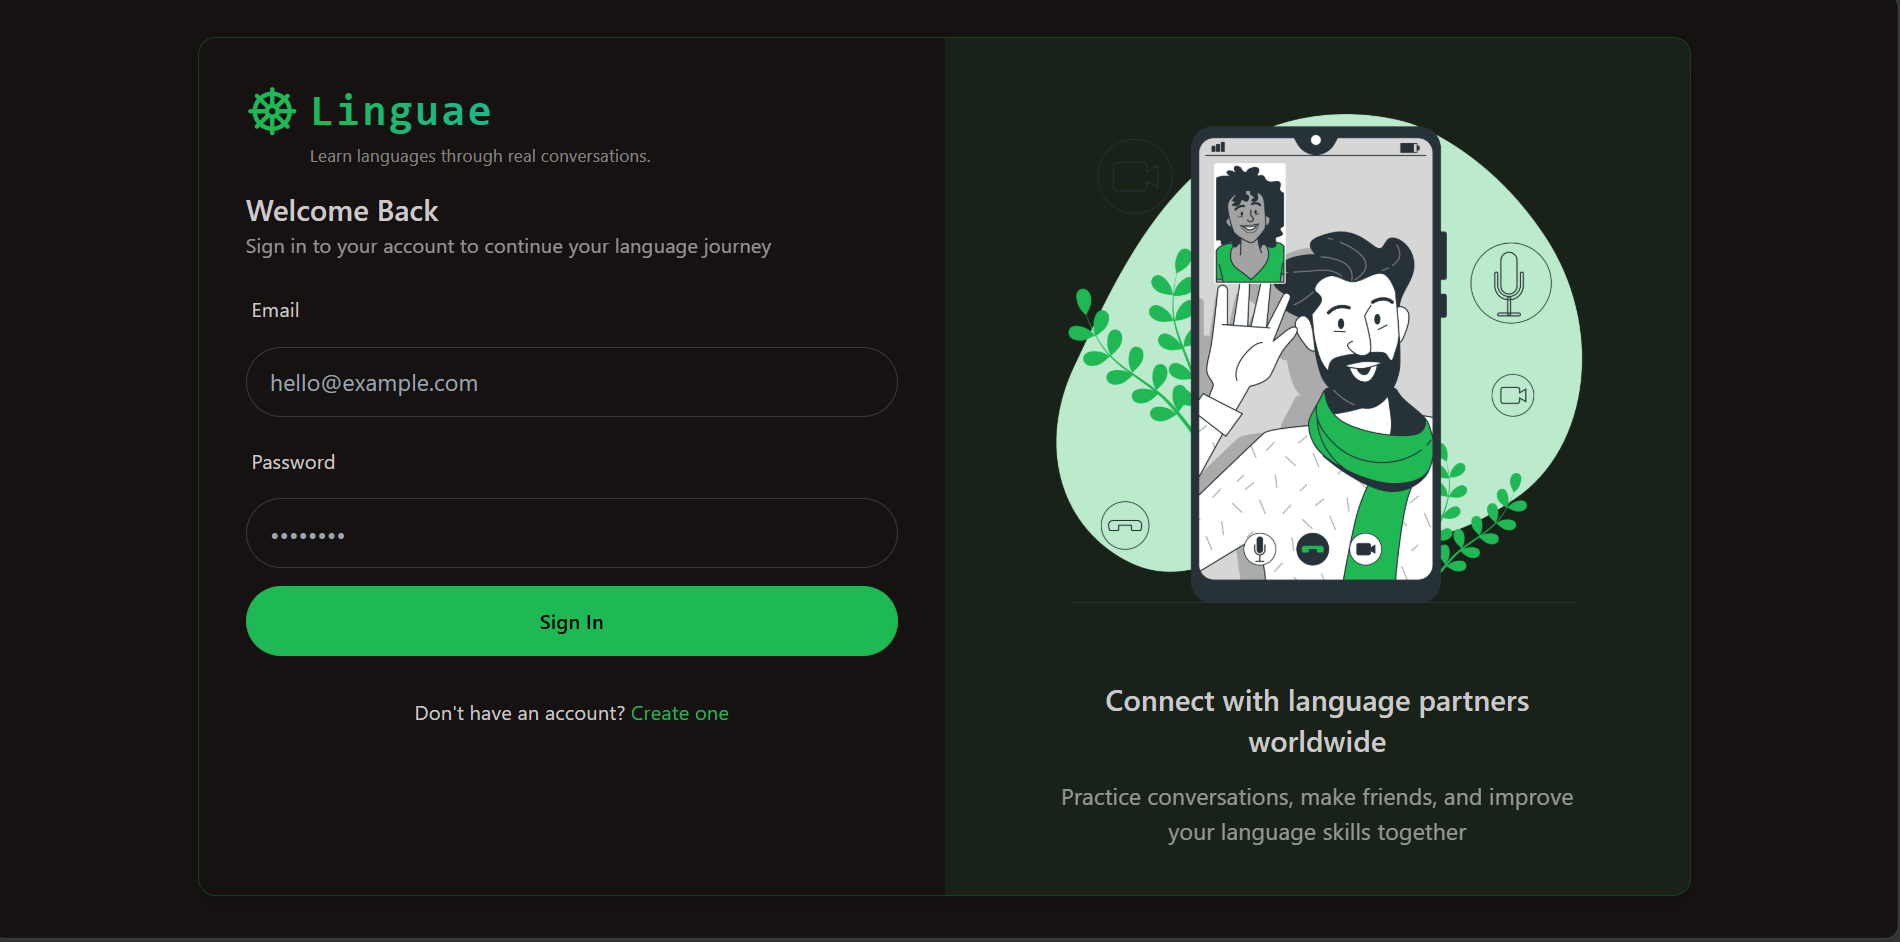
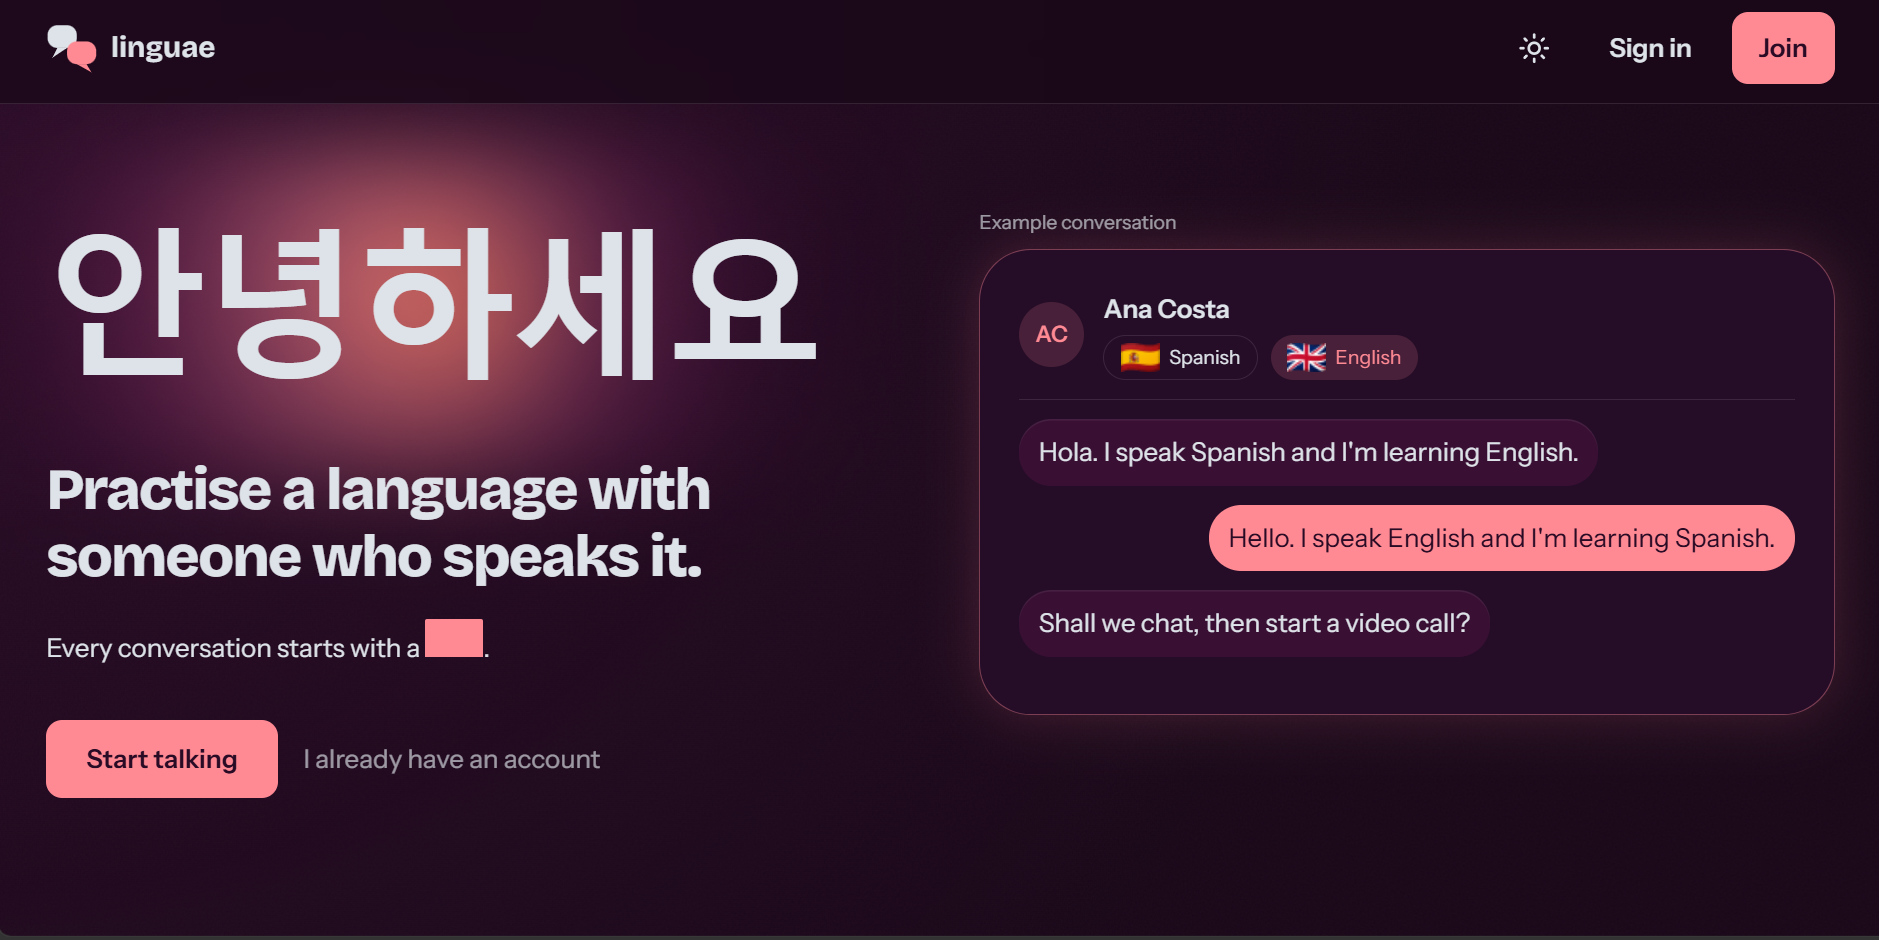
fix: hero/contact/footer clipping, skills on touch, Lenis touch scroll

diff --git a/src/pages/Index.tsx b/src/pages/Index.tsx
@@ -1,4 +1,4 @@
-import React, { useEffect, useRef } from "react";
+import React, { useEffect, useRef, useState } from "react";
 import { motion, useSpring, useMotionValue, useScroll, useTransform } from "framer-motion";
 import { Github, Linkedin, Instagram, Mail } from "lucide-react";
 import { useScramble } from "@/hooks/use-scramble";
@@ -130,8 +130,14 @@ const MobileSocialStrip = () => {
       className="flex flex-col items-center gap-6"
     >
       {socials.map(({ label, icon: Icon, href }) => (
-        <a key={label} href={href} target={href.startsWith("mailto") ? "_self" : "_blank"} rel="noopener noreferrer"
-          className="text-white hover:opacity-75 transition-opacity duration-300 block">
+        <a
+          key={label}
+          href={href}
+          target={href.startsWith("mailto") ? "_self" : "_blank"}
+          rel="noopener noreferrer"
+          aria-label={label}
+          className="text-white hover:opacity-75 transition-opacity duration-300 inline-flex items-center justify-center p-[13px]"
+        >
           <Icon size={18} strokeWidth={2.5} />
         </a>
       ))}
@@ -165,7 +171,7 @@ const HeroContent = () => {
         animate={{ opacity: 1, y: 0 }}
         transition={{ duration: 0.8, ease: [0.16, 1, 0.3, 1] }}
       >
-        <h1 className="font-sans font-bold text-7xl md:text-8xl lg:text-[9rem] xl:text-[11rem] leading-[0.85] tracking-tighter text-white text-left pt-4">
+        <h1 className="font-sans font-bold text-[clamp(2.25rem,calc((100vw-3rem)/4.15),4.5rem)] md:text-[clamp(3rem,calc((100vw-8rem)/4.15),6rem)] lg:text-[9rem] xl:text-[11rem] leading-[0.85] tracking-tighter text-white text-left pt-4">
           <span
             ref={firstRef as React.RefObject<HTMLSpanElement>}
             className="block cursor-default select-none"
@@ -186,7 +192,7 @@ const HeroContent = () => {
         initial={{ opacity: 0, x: -20 }}
         animate={{ opacity: 1, x: 0 }}
         transition={{ duration: 0.8, delay: 0.35, ease: "easeOut" }}
-        className="w-full pr-[70px] md:pr-[120px] mt-2 md:mt-4"
+        className="w-full md:pr-[120px] mt-2 md:mt-4"
       >
         <div className="w-12 h-[2px] bg-white mb-4 md:hidden" />
         <p
@@ -231,12 +237,12 @@ const HeroContent = () => {
             className="group relative overflow-hidden border border-white px-5 py-3 md:px-6 md:py-3 flex items-center gap-2 md:gap-3 transition-colors duration-500 focus-visible:outline focus-visible:outline-2 focus-visible:outline-white focus-visible:outline-offset-2 shrink-0"
             aria-label="View Resume"
           >
-            <span className="absolute inset-0 bg-white translate-x-[-101%] group-hover:translate-x-0 transition-transform duration-500 ease-in-out" />
-            <span className="relative font-sans font-black text-[9px] md:text-[10px] tracking-[0.25em] uppercase text-white group-hover:text-black transition-colors duration-300 z-10 whitespace-nowrap">
+            <span className="absolute inset-0 bg-white translate-x-[-101%] group-hover:translate-x-0 [@media(hover:none)]:!translate-x-0 transition-transform duration-500 ease-in-out" />
+            <span className="relative font-sans font-black text-[9px] md:text-[10px] tracking-[0.25em] uppercase text-white group-hover:text-black [@media(hover:none)]:!text-black transition-colors duration-300 z-10 whitespace-nowrap">
               View Resume
             </span>
             <svg
-              className="relative w-3 h-3 text-white group-hover:text-black transition-colors duration-300 z-10"
+              className="relative w-3 h-3 text-white group-hover:text-black [@media(hover:none)]:!text-black transition-colors duration-300 z-10"
               viewBox="0 0 12 12" fill="none" stroke="currentColor" strokeWidth="2.5"
             >
               <path d="M1 6h10M6 1l5 5-5 5" />
@@ -246,15 +252,15 @@ const HeroContent = () => {
           {/* Secondary CTA */}
           <a
             href="#contact"
-            className="group relative overflow-hidden border border-white/30 px-5 py-3 md:px-6 md:py-3 flex items-center gap-2 md:gap-3 hover:border-white transition-colors duration-500 focus-visible:outline focus-visible:outline-2 focus-visible:outline-white focus-visible:outline-offset-2 shrink-0"
+            className="group relative overflow-hidden border border-white/30 px-5 py-3 md:px-6 md:py-3 flex items-center gap-2 md:gap-3 hover:border-white [@media(hover:none)]:!border-white [@media(hover:none)]:!bg-white transition-colors duration-500 focus-visible:outline focus-visible:outline-2 focus-visible:outline-white focus-visible:outline-offset-2 shrink-0"
             aria-label="Contact Me"
           >
-            <span className="absolute inset-0 bg-white translate-x-[-101%] group-hover:translate-x-0 transition-transform duration-500 ease-in-out" />
-            <span className="relative font-sans font-black text-[9px] md:text-[10px] tracking-[0.25em] uppercase text-white group-hover:text-black transition-colors duration-300 z-10 whitespace-nowrap">
+            <span className="absolute inset-0 bg-white translate-x-[-101%] group-hover:translate-x-0 [@media(hover:none)]:!translate-x-0 transition-transform duration-500 ease-in-out" />
+            <span className="relative font-sans font-black text-[9px] md:text-[10px] tracking-[0.25em] uppercase text-white group-hover:text-black [@media(hover:none)]:!text-black transition-colors duration-300 z-10 whitespace-nowrap">
               Contact Me
             </span>
             <svg
-              className="relative w-3 h-3 text-white group-hover:text-black transition-colors duration-300 z-10"
+              className="relative w-3 h-3 text-white group-hover:text-black [@media(hover:none)]:!text-black transition-colors duration-300 z-10"
               viewBox="0 0 12 12" fill="none" stroke="currentColor" strokeWidth="2.5"
             >
               <path d="M1 6h10M6 1l5 5-5 5" />
@@ -268,11 +274,26 @@ const HeroContent = () => {
 
 const Index = () => {
   const footerContainerRef = useRef<HTMLDivElement>(null);
+  const [footerReveal, setFooterReveal] = useState(
+    () => window.matchMedia("(min-width: 1024px)").matches
+  );
+
+  useEffect(() => {
+    const mq = window.matchMedia("(min-width: 1024px)");
+    const sync = () => setFooterReveal(mq.matches);
+    sync();
+    mq.addEventListener("change", sync);
+    return () => mq.removeEventListener("change", sync);
+  }, []);
+
   const { scrollYProgress } = useScroll({
     target: footerContainerRef,
     offset: ["start end", "end end"]
   });
 
+  // Shell is exactly one viewport tall and clips. y:-50%→0 slides the footer
+  // up inside that window. Below lg the shell is in-flow, so this shift would
+  // pull the footer over the contact section.
   const footerY = useTransform(scrollYProgress, [0, 1], ["-50%", "0%"]);
 
   return (
@@ -287,7 +308,7 @@ const Index = () => {
       </div>
 
       {/* Hero */}
-      <section className="relative h-screen bg-black flex flex-col px-6 pt-14 pb-32 md:px-16 md:pt-20 md:pb-48 z-20 overflow-hidden">
+      <section className="relative h-screen bg-black flex flex-col px-6 pt-14 pb-32 md:px-16 md:pt-20 md:pb-48 z-20 overflow-hidden max-lg:h-auto max-lg:min-h-[100dvh] max-lg:overflow-visible">
         <AvailabilityBadge />
         <div className="hidden lg:block"><SplashCursor /></div>
 
@@ -329,8 +350,8 @@ const Index = () => {
       </div>
 
       {/* Parallax Footer Reveal Stack */}
-      <div ref={footerContainerRef} className="relative z-0 h-screen w-full overflow-hidden bg-black text-white">
-        <motion.div style={{ y: footerY }} className="h-full w-full">
+      <div ref={footerContainerRef} className="relative z-0 h-screen w-full overflow-hidden bg-black text-white max-lg:h-auto max-lg:overflow-x-clip max-lg:overflow-y-visible">
+        <motion.div style={footerReveal ? { y: footerY } : undefined} className="h-full w-full max-lg:h-auto">
           <Footer />
         </motion.div>
       </div>

diff --git a/src/pages/Contact.tsx b/src/pages/Contact.tsx
@@ -75,7 +75,7 @@ const Contact = () => {
   };
 
   return (
-    <section className="h-screen w-full bg-white text-black font-sans px-4 md:px-8 lg:px-12 overflow-hidden flex items-center justify-center relative">
+    <section className="h-screen w-full bg-white text-black font-sans px-4 md:px-8 lg:px-12 overflow-hidden flex items-center justify-center relative max-lg:h-auto max-lg:min-h-[100dvh] max-lg:overflow-visible max-lg:py-28">
       <motion.div
         className="grid grid-cols-1 lg:grid-cols-12 gap-y-8 lg:gap-x-16 max-w-[1400px] w-full mx-auto"
         variants={containerVariants}
@@ -111,18 +111,18 @@ const Contact = () => {
               <div className="flex flex-col gap-1">
                 <label htmlFor="firstName" className="text-xs font-bold uppercase tracking-wider">First Name*</label>
                 <input
-                  type="text" id="firstName" name="firstName"
+                  type="text" id="firstName" name="firstName" autoComplete="given-name"
                   value={formData.firstName} onChange={handleChange}
-                  className="w-full bg-transparent border-b border-black/30 py-1 text-lg font-medium focus:border-black focus:outline-none transition-colors"
+                  className="w-full bg-transparent border-b border-black/30 py-1 text-lg font-medium focus:border-black focus-visible:outline focus-visible:outline-2 focus-visible:outline-offset-2 focus-visible:outline-black transition-colors"
                   required
                 />
               </div>
               <div className="flex flex-col gap-1">
                 <label htmlFor="lastName" className="text-xs font-bold uppercase tracking-wider">Last Name*</label>
                 <input
-                  type="text" id="lastName" name="lastName"
+                  type="text" id="lastName" name="lastName" autoComplete="family-name"
                   value={formData.lastName} onChange={handleChange}
-                  className="w-full bg-transparent border-b border-black/30 py-1 text-lg font-medium focus:border-black focus:outline-none transition-colors"
+                  className="w-full bg-transparent border-b border-black/30 py-1 text-lg font-medium focus:border-black focus-visible:outline focus-visible:outline-2 focus-visible:outline-offset-2 focus-visible:outline-black transition-colors"
                   required
                 />
               </div>
@@ -133,9 +133,9 @@ const Contact = () => {
               <div className="flex flex-col gap-1">
                 <label htmlFor="email" className="text-xs font-bold uppercase tracking-wider">Email*</label>
                 <input
-                  type="email" id="email" name="email"
+                  type="email" id="email" name="email" autoComplete="email"
                   value={formData.email} onChange={handleChange}
-                  className="w-full bg-transparent border-b border-black/30 py-1 text-lg font-medium focus:border-black focus:outline-none transition-colors"
+                  className="w-full bg-transparent border-b border-black/30 py-1 text-lg font-medium focus:border-black focus-visible:outline focus-visible:outline-2 focus-visible:outline-offset-2 focus-visible:outline-black transition-colors"
                   required
                 />
               </div>
@@ -144,7 +144,7 @@ const Contact = () => {
                 <input
                   type="text" id="subject" name="subject"
                   value={formData.subject} onChange={handleChange}
-                  className="w-full bg-transparent border-b border-black/30 py-1 text-lg font-medium focus:border-black focus:outline-none transition-colors"
+                  className="w-full bg-transparent border-b border-black/30 py-1 text-lg font-medium focus:border-black focus-visible:outline focus-visible:outline-2 focus-visible:outline-offset-2 focus-visible:outline-black transition-colors"
                   required
                 />
               </div>
@@ -156,7 +156,7 @@ const Contact = () => {
               <textarea
                 id="message" name="message" rows={3}
                 value={formData.message} onChange={handleChange}
-                className="w-full bg-transparent border-b border-black/30 py-1 text-lg font-medium focus:border-black focus:outline-none transition-colors resize-none"
+                className="w-full bg-transparent border-b border-black/30 py-1 text-lg font-medium focus:border-black focus-visible:outline focus-visible:outline-2 focus-visible:outline-offset-2 focus-visible:outline-black transition-colors resize-none"
                 required
               />
             </div>

diff --git a/src/pages/SkillsPhilosophy.tsx b/src/pages/SkillsPhilosophy.tsx
@@ -7,6 +7,12 @@ const marqueeKeyframe = `
     from { transform: translateX(0); }
     to   { transform: translateX(-50%); }
   }
+  .skill-row-static { display: flex; }
+  .skill-row-marquee { display: none; }
+  @media (hover: hover) and (min-width: 1024px) {
+    .skill-row-static { display: none; }
+    .skill-row-marquee { display: flex; }
+  }
 `;
 
 // ─── Data ──────────────────────────────────────────────────────────────────────
@@ -109,13 +115,58 @@ const SkillRow = ({
   const duration = category.skills.length * 2.2;
 
   return (
+    <>
     <div
+      className="skill-row-static px-6 md:px-12 lg:px-16"
+      style={{
+        borderBottom: "1px solid black",
+        flexDirection: "column",
+        gap: "14px",
+        paddingTop: "18px",
+        paddingBottom: "18px",
+        background: "white",
+      }}
+    >
+      <div style={{ display: "flex", justifyContent: "space-between", alignItems: "baseline", gap: "16px" }}>
+        <span
+          style={{
+            fontFamily: "var(--font-sans)",
+            fontSize: "clamp(0.82rem, 1.25vw, 1rem)",
+            fontWeight: 500,
+            letterSpacing: "0.04em",
+            textTransform: "uppercase",
+            color: "#0a0a0a",
+            userSelect: "none",
+          }}
+        >
+          {category.title}
+        </span>
+        <span
+          style={{
+            fontFamily: "var(--font-sans)",
+            fontSize: "0.65rem",
+            letterSpacing: "0.08em",
+            color: "#bbb",
+            textTransform: "uppercase",
+            flexShrink: 0,
+          }}
+        >
+          {category.skills.length}
+        </span>
+      </div>
+      <div style={{ display: "flex", flexWrap: "wrap", gap: "10px" }}>
+        {category.skills.map((skill) => (
+          <Pill key={skill} label={skill} />
+        ))}
+      </div>
+    </div>
+    <div
+      className="skill-row-marquee"
       onMouseEnter={() => setHovered(true)}
       onMouseLeave={() => setHovered(false)}
       style={{
         borderBottom: "1px solid black",
         height: "68px",
-        display: "flex",
         alignItems: "center",
         background: hovered ? "#F8F8F8" : "white",
         transition: "background 0.25s ease",
@@ -257,6 +308,7 @@ const SkillRow = ({
         </span>
       </div>
     </div>
+    </>
   );
 };
 

diff --git a/src/pages/Footer.tsx b/src/pages/Footer.tsx
@@ -83,7 +83,7 @@ const Footer = () => {
   return (
     <footer
       ref={footerRef}
-      className="relative bg-black text-white font-sans h-screen flex flex-col overflow-hidden"
+      className="relative bg-black text-white font-sans h-screen flex flex-col overflow-hidden max-lg:h-auto max-lg:min-h-[100dvh] max-lg:overflow-x-clip max-lg:overflow-y-visible"
     >
       {/* Radial depth glow */}
       <div
@@ -161,10 +161,10 @@ const Footer = () => {
             </p>
 
             <div className="flex flex-col gap-0.5 mt-1">
-              <p className="font-sans text-[10px] tracking-[0.18em] uppercase text-white/25">
+              <p className="font-sans text-[10px] tracking-[0.18em] uppercase text-white/70 lg:text-white/25">
                 Visakhapatnam, India
               </p>
-              <p className="font-sans text-[10px] tracking-[0.18em] uppercase text-white/25">
+              <p className="font-sans text-[10px] tracking-[0.18em] uppercase text-white/70 lg:text-white/25">
                 Remote&nbsp;·&nbsp;Worldwide
               </p>
             </div>
@@ -179,7 +179,7 @@ const Footer = () => {
             variants={stagger}
             className="flex flex-col gap-4"
           >
-            <p className="font-sans text-[10px] tracking-[0.28em] uppercase text-white/30 font-medium">
+            <p className="font-sans text-[10px] tracking-[0.28em] uppercase text-white/75 lg:text-white/30 font-medium">
               Connect
             </p>
             <div className="flex flex-col gap-4">
@@ -203,7 +203,7 @@ const Footer = () => {
             variants={stagger}
             className="flex flex-col gap-4"
           >
-            <p className="font-sans text-[10px] tracking-[0.28em] uppercase text-white/30 font-medium">
+            <p className="font-sans text-[10px] tracking-[0.28em] uppercase text-white/75 lg:text-white/30 font-medium">
               Built with
             </p>
 
@@ -213,7 +213,7 @@ const Footer = () => {
               Lenis&nbsp;•&nbsp;Tailwind CSS
             </p>
 
-            <p className="font-serif italic text-xs text-white/30 leading-relaxed max-w-[28ch]">
+            <p className="font-serif italic text-xs text-white/75 lg:text-white/30 leading-relaxed max-w-[28ch]">
               Crafted with attention to performance, motion, accessibility, and
               developer experience.
             </p>

diff --git a/src/pages/Experience.tsx b/src/pages/Experience.tsx
@@ -165,12 +165,11 @@ const ExperienceCard = ({
         {/* LEFT: Year + Duration */}
         <div className="exp-year flex flex-col items-center justify-center gap-0 opacity-0 md:border-r border-black/10 md:pr-12 lg:pr-20">
           <span
-            className="leading-none tracking-tight select-none text-center"
+            className="leading-none tracking-tight select-none text-center text-[clamp(4.5rem,28vw,320px)] lg:text-[clamp(180px,24vw,320px)]"
             style={{
               fontFamily: "'Cormorant Garamond', Georgia, serif",
               fontStyle: "italic",
               fontWeight: 300,
-              fontSize: "clamp(180px, 24vw, 320px)",
               color: "#777777",
               lineHeight: 0.85,
               fontVariantNumeric: "lining-nums",

diff --git a/src/pages/SelectedWorks.tsx b/src/pages/SelectedWorks.tsx
@@ -11,7 +11,7 @@ const projects = [
     description:
       "An AI-powered personal finance platform that automates expense tracking, budgeting, and receipt scanning with real-time analytics, recurring transactions, and intelligent financial insights.",
     links: { live: "https://ledgerly-finance-one.vercel.app/", code: "https://github.com/PrathamPeriwal/Ledgerly" },
-    image: "/Ledgerly.png",
+    image: "/ledgerly.png",
     cta: "Live Project",
   },
   {

diff --git a/src/App.tsx b/src/App.tsx
@@ -25,10 +25,7 @@ const App = () => (
     duration: 1.2,
     wheelMultiplier: 0.9,
     easing: (t: number) => Math.min(1, 1.001 - Math.pow(2, -10 * t)),
-    syncTouch: true,
-    syncTouchLerp: 0.15,
-    touchMultiplier: 1.2,
-    touchInertiaExponent: 1.55,
+    syncTouch: false,
   }}>
     <LenisScrollTriggerBridge />
     <BrowserRouter>
